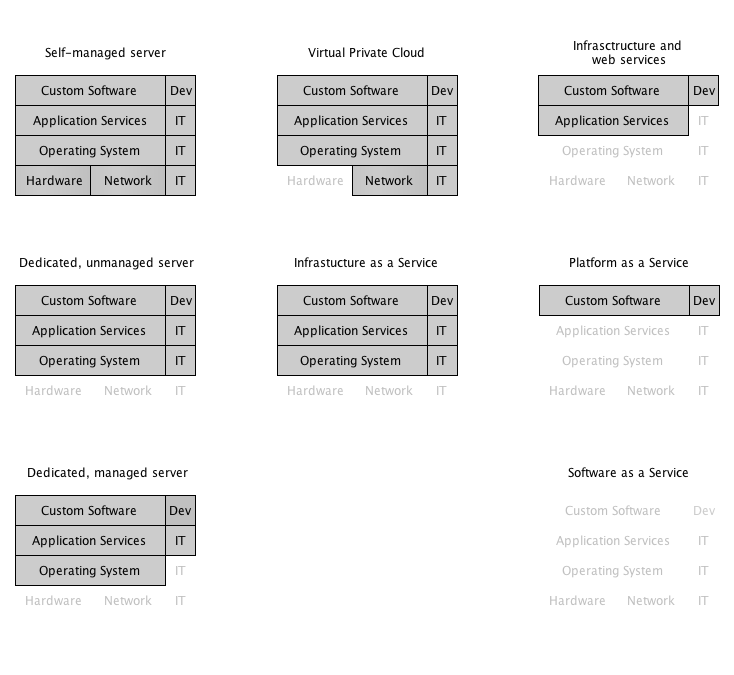
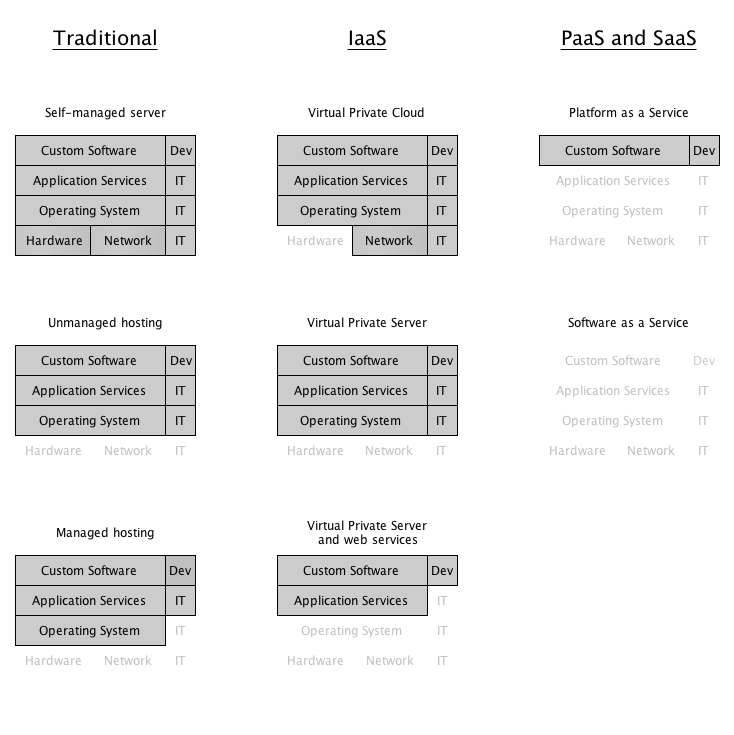
Repost: Cloudy.

diff --git a/index.html b/index.html
@@ -68,7 +68,8 @@
   <h3>Posts</h3>
   <p>Writing is hard. When you're weak at something you train to get stronger.
   These posts are my pushups and I hope their content will improve with time.</p>
-  <p><a href="./posts/downvoting-mastery-level/">Downvoting, Mastery Level</a></p>
+  <p><a href="./posts/cloudy/">Cloudy</a></p>
+<p><a href="./posts/downvoting-mastery-level/">Downvoting, Mastery Level</a></p>
 <p><a href="./posts/open-source-in-enterprise/">Open Source in Enterprise</a></p>
 <p><a href="./posts/thinking-things-through/">Thinking Things Through</a></p>
 <p><a href="./posts/shooting-for-black-and-white/">Shooting for Black and White</a></p>

diff --git a/posts/cloudy/index.html b/posts/cloudy/index.html
@@ -67,7 +67,7 @@
   <h3>Cloudy</h3>
   <p>May 16, 2013</p>
   <p><img src="../../images/cloud-01.png" alt="cloudy" />  </p>
-<p>Version 0.2.0.</p>
+<p>Simply visualizing… Traditional server management, managed and unmanaged hosting; Infrastructure as a Service (IaaS): virtual private servers, virtual private clouds and web services; Platform as a Service (PaaS) and Software as a Service (SaaS).</p>
   <div id="disqus_thread">
     <script type="text/javascript">
       var disqus_shortname = 'workforpizza';
